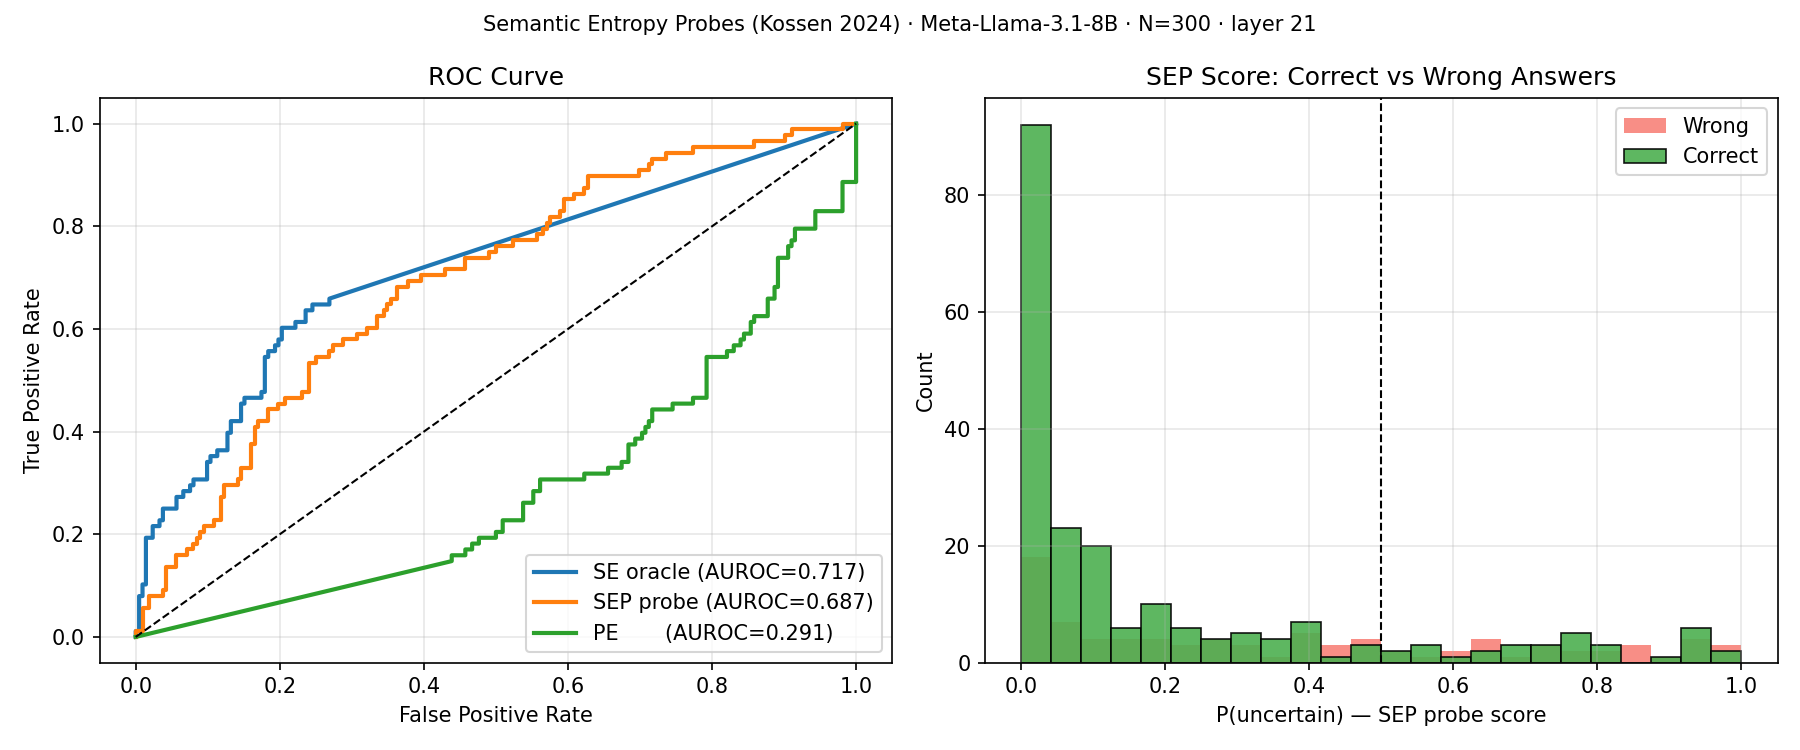
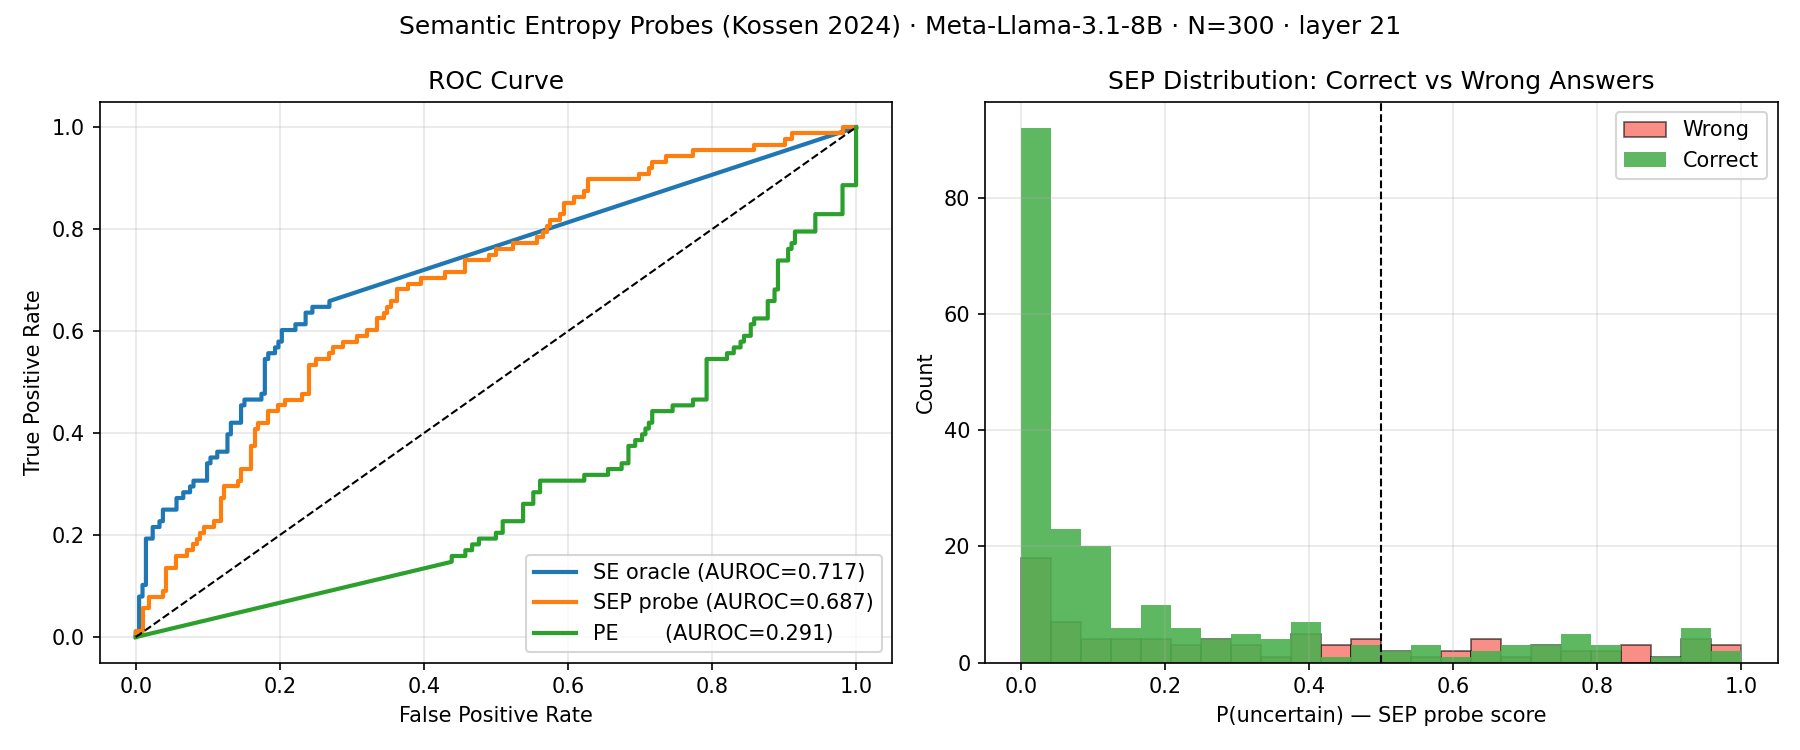
polish plots

diff --git a/results.py b/results.py
@@ -80,19 +80,17 @@ def plot_auroc(data: dict, path: Path = Path("benchmark_results.json")) -> None:
             f"Semantic Entropy (Kuhn 2023) · "
             f"{model_short} · N={n_q} · M={n_s} · "
             f"temp={temp} · Acc={acc:.0%}",
-            fontsize=10,
+            fontsize=12,
         )
 
         # ROC curves
         ax = axes[0]
-        for scores, label, color, marker, fillstyle in [
-            (se_scores, f"Semantic Entropy (AUROC={data['se_auroc']:.3f})", "#2196F3", "o", "full"),
-            (pe_scores, f"Predictive Entropy (AUROC={data['pe_auroc']:.3f})", "#FF5722", "o", "none"),
+        for scores, label, color in [
+            (se_scores, f"Semantic Entropy (AUROC={data['se_auroc']:.3f})", "#2196F3"),
+            (pe_scores, f"Predictive Entropy (AUROC={data['pe_auroc']:.3f})", "#FF5722"),
         ]:
             fpr, tpr, _ = roc_curve(labels_wrong, scores)
-            ax.plot(fpr, tpr, color=color, lw=2)
-            ax.plot(fpr, tpr, marker=marker, fillstyle=fillstyle,
-                    color=color, linestyle="none", ms=8, label=label)
+            ax.plot(fpr, tpr, color=color, lw=2, label=label)
         ax.plot([0, 1], [0, 1], "k--", lw=1)
         ax.set_xlabel("False Positive Rate")
         ax.set_ylabel("True Positive Rate")
@@ -105,9 +103,9 @@ def plot_auroc(data: dict, path: Path = Path("benchmark_results.json")) -> None:
         correct_se = [r["semantic_entropy"] for r in rows if r["is_correct"]]
         wrong_se   = [r["semantic_entropy"] for r in rows if not r["is_correct"]]
         bins = np.linspace(0, max(se_scores) + 0.1, 25)
-        ax.hist(wrong_se,   bins=bins, alpha=0.6,  label="Wrong",   color="#F44336")
-        ax.hist(correct_se, bins=bins, alpha=0.9,  label="Correct", color="#4CAF50",
+        ax.hist(wrong_se,   bins=bins, alpha=0.6,  label="Wrong",   color="#F44336",
                 edgecolor="black", linewidth=0.8)
+        ax.hist(correct_se, bins=bins, alpha=0.9,  label="Correct", color="#4CAF50")
         ax.set_xlabel("Semantic Entropy")
         ax.set_ylabel("Count")
         ax.set_title("SE Distribution: Correct vs Wrong Answers")

diff --git a/train_probe.py b/train_probe.py
@@ -49,7 +49,7 @@ def _plot_sep(data: dict, probe, rows: list, sep_scores_cv: "np.ndarray", sep_ha
         fig, axes = plt.subplots(1, 2, figsize=(12, 5))
         fig.suptitle(
             f"Semantic Entropy Probes (Kossen 2024) · {model_short} · N={n_q} · layer {probe.best_layer}",
-            fontsize=10,
+            fontsize=12,
         )
 
         ax = axes[0]
@@ -71,13 +71,13 @@ def _plot_sep(data: dict, probe, rows: list, sep_scores_cv: "np.ndarray", sep_ha
         correct_sep = [sep_scores_cv[i] for i, r in enumerate(rows) if r["is_correct"]]
         wrong_sep   = [sep_scores_cv[i] for i, r in enumerate(rows) if not r["is_correct"]]
         bins = np.linspace(0, 1, 25)
-        ax.hist(wrong_sep,   bins=bins, alpha=0.6, label="Wrong",   color="#F44336")
-        ax.hist(correct_sep, bins=bins, alpha=0.9, label="Correct", color="#4CAF50",
+        ax.hist(wrong_sep,   bins=bins, alpha=0.6, label="Wrong",   color="#F44336",
                 edgecolor="black", linewidth=0.8)
+        ax.hist(correct_sep, bins=bins, alpha=0.9, label="Correct", color="#4CAF50")
         ax.axvline(0.5, color="k", linestyle="--", lw=1)
         ax.set_xlabel("P(uncertain) — SEP probe score")
         ax.set_ylabel("Count")
-        ax.set_title("SEP Score: Correct vs Wrong Answers")
+        ax.set_title("SEP Distribution: Correct vs Wrong Answers")
         ax.legend()
         ax.grid(alpha=0.3)
 
